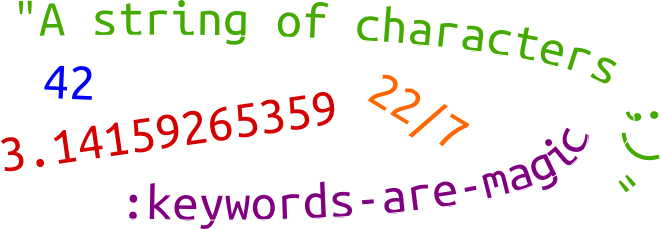
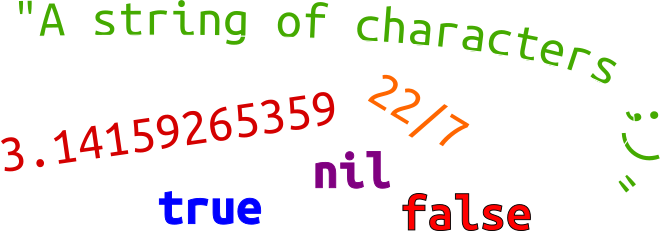
Moved keywords from simple values to Collections Maps section
Describing keywords is much easier when dealing with maps, so move the keywords
section to the Collections > Maps section.

Updated sections with level numbers, to give some sense of completion

diff --git a/SUMMARY.md b/SUMMARY.md
@@ -20,7 +20,7 @@
 * [Overview](clojurebridge-workshop.md)
     * [Recap: What does Clojure look like](recap-what-does-clojure-look-like.md)
     * [Comments](comments.md)
-* [Simple Values](simple-values/index.md)
+* [Level 1- Simple Values](simple-values/index.md)
     * [Numbers](simple-values/numbers.md)
     * [Arithmetic](simple-values/arithmetic.md)
         * [Exercise: Basic Arithmetic](simple-values/exercise-basic-arithmetic.md)
@@ -28,12 +28,10 @@
         * [Theory: Prefix Notation](simple-values/prefix-notation.md)
     * [Strings](simple-values/strings.md)
         * [Exercise: String Fun](simple-values/exercise-string-fun.md)
-    * [Boolean values](simple-values/boolean.md)
-    * [Keywords](simple-values/keywords.md)
-* [Assignment](assignment/index.md)
+* [Level 2 - Assignment](assignment/index.md)
     * [let - Local assignment](assignment/let-local-assignment.md)
     * [def - shared assignment](assignment/def-shared-assignment.md)
-* [Collections](collections/index.md)
+* [Level 3- Collections](collections/index.md)
     * [Vectors](collections/vectors.md)
         * [Reading values sequentially](collections/reading-values-from-vectors-sequentially.md)
         * [Reading values by index](collections/reading-values-from-vectors-by-index.md)
@@ -41,6 +39,7 @@
         * [Comparing Vectors](collections/comparing-vectors.md)
         * [Exercise: Weather Forcast](collections/vector-excercise-weather-forcast.md)
     * [Maps](collections/maps.md)
+        * [Keywords](simple-values/keywords.md)
         * [Map Syntax](collections/map-syntax.md)
         * [Map Creation](collections/map-creation.md)
         * [Map Update](collections/map-update.md)

diff --git a/simple-values/keywords.md b/simple-values/keywords.md
@@ -2,7 +2,7 @@
 
 Keywords are the strangest of the basic value types, they don’t have a real world analog like numbers, strings, or booleans.
 
-For now you can think of them as a special type of string, but has more super powers that we will cover in maps.
+For now you can think of them as a special type of string, but has super powers when used with maps.
 
 
 ```clojure
@@ -22,4 +22,4 @@ For now you can think of them as a special type of string, but has more super po
 <hr />
 
 > #### Hint::
-> Keywords should make more sense when we start looking at the `map` data structure in Clojure
+> Keywords should make more sense when as we start looking at the `map` data structure in Clojure

diff --git a/simple-values/exercise-calculating-language-ages.md b/simple-values/exercise-calculating-language-ages.md
@@ -17,6 +17,8 @@ Clojure is 10 years old this year (2017), so its age can be represented as `10`
 > * Lisp (59 years)
 > * Fortran (60 years)
 >
+> You can copy the list of years here as a convienience
+> `10 27 26 21 22 22 45 34 59 60`
 ```eval-clojure
 ()
 ```
@@ -49,7 +51,7 @@ As there are two values the same, we could also calculate the total as follows
 >
 > If you want to try something more advanced, then you can count the number of languages is to put them in a collection, eg.
 > `[10 27  26  21 22 22 45 34 59 60]`
-i>
+>
 > The `count` function will tell you how many things are in a collection
 
 

diff --git a/simple-values/index.md b/simple-values/index.md
@@ -1,6 +1,6 @@
 # Simple Values
 
-In Clojure, simple values are numbers, strings, boolean (true or false), nil and keywords.
+In Clojure, simple values are numbers, strings, boolean (true or false) and nil.
 
 These simple values are use to represent the information your code will use.
 
